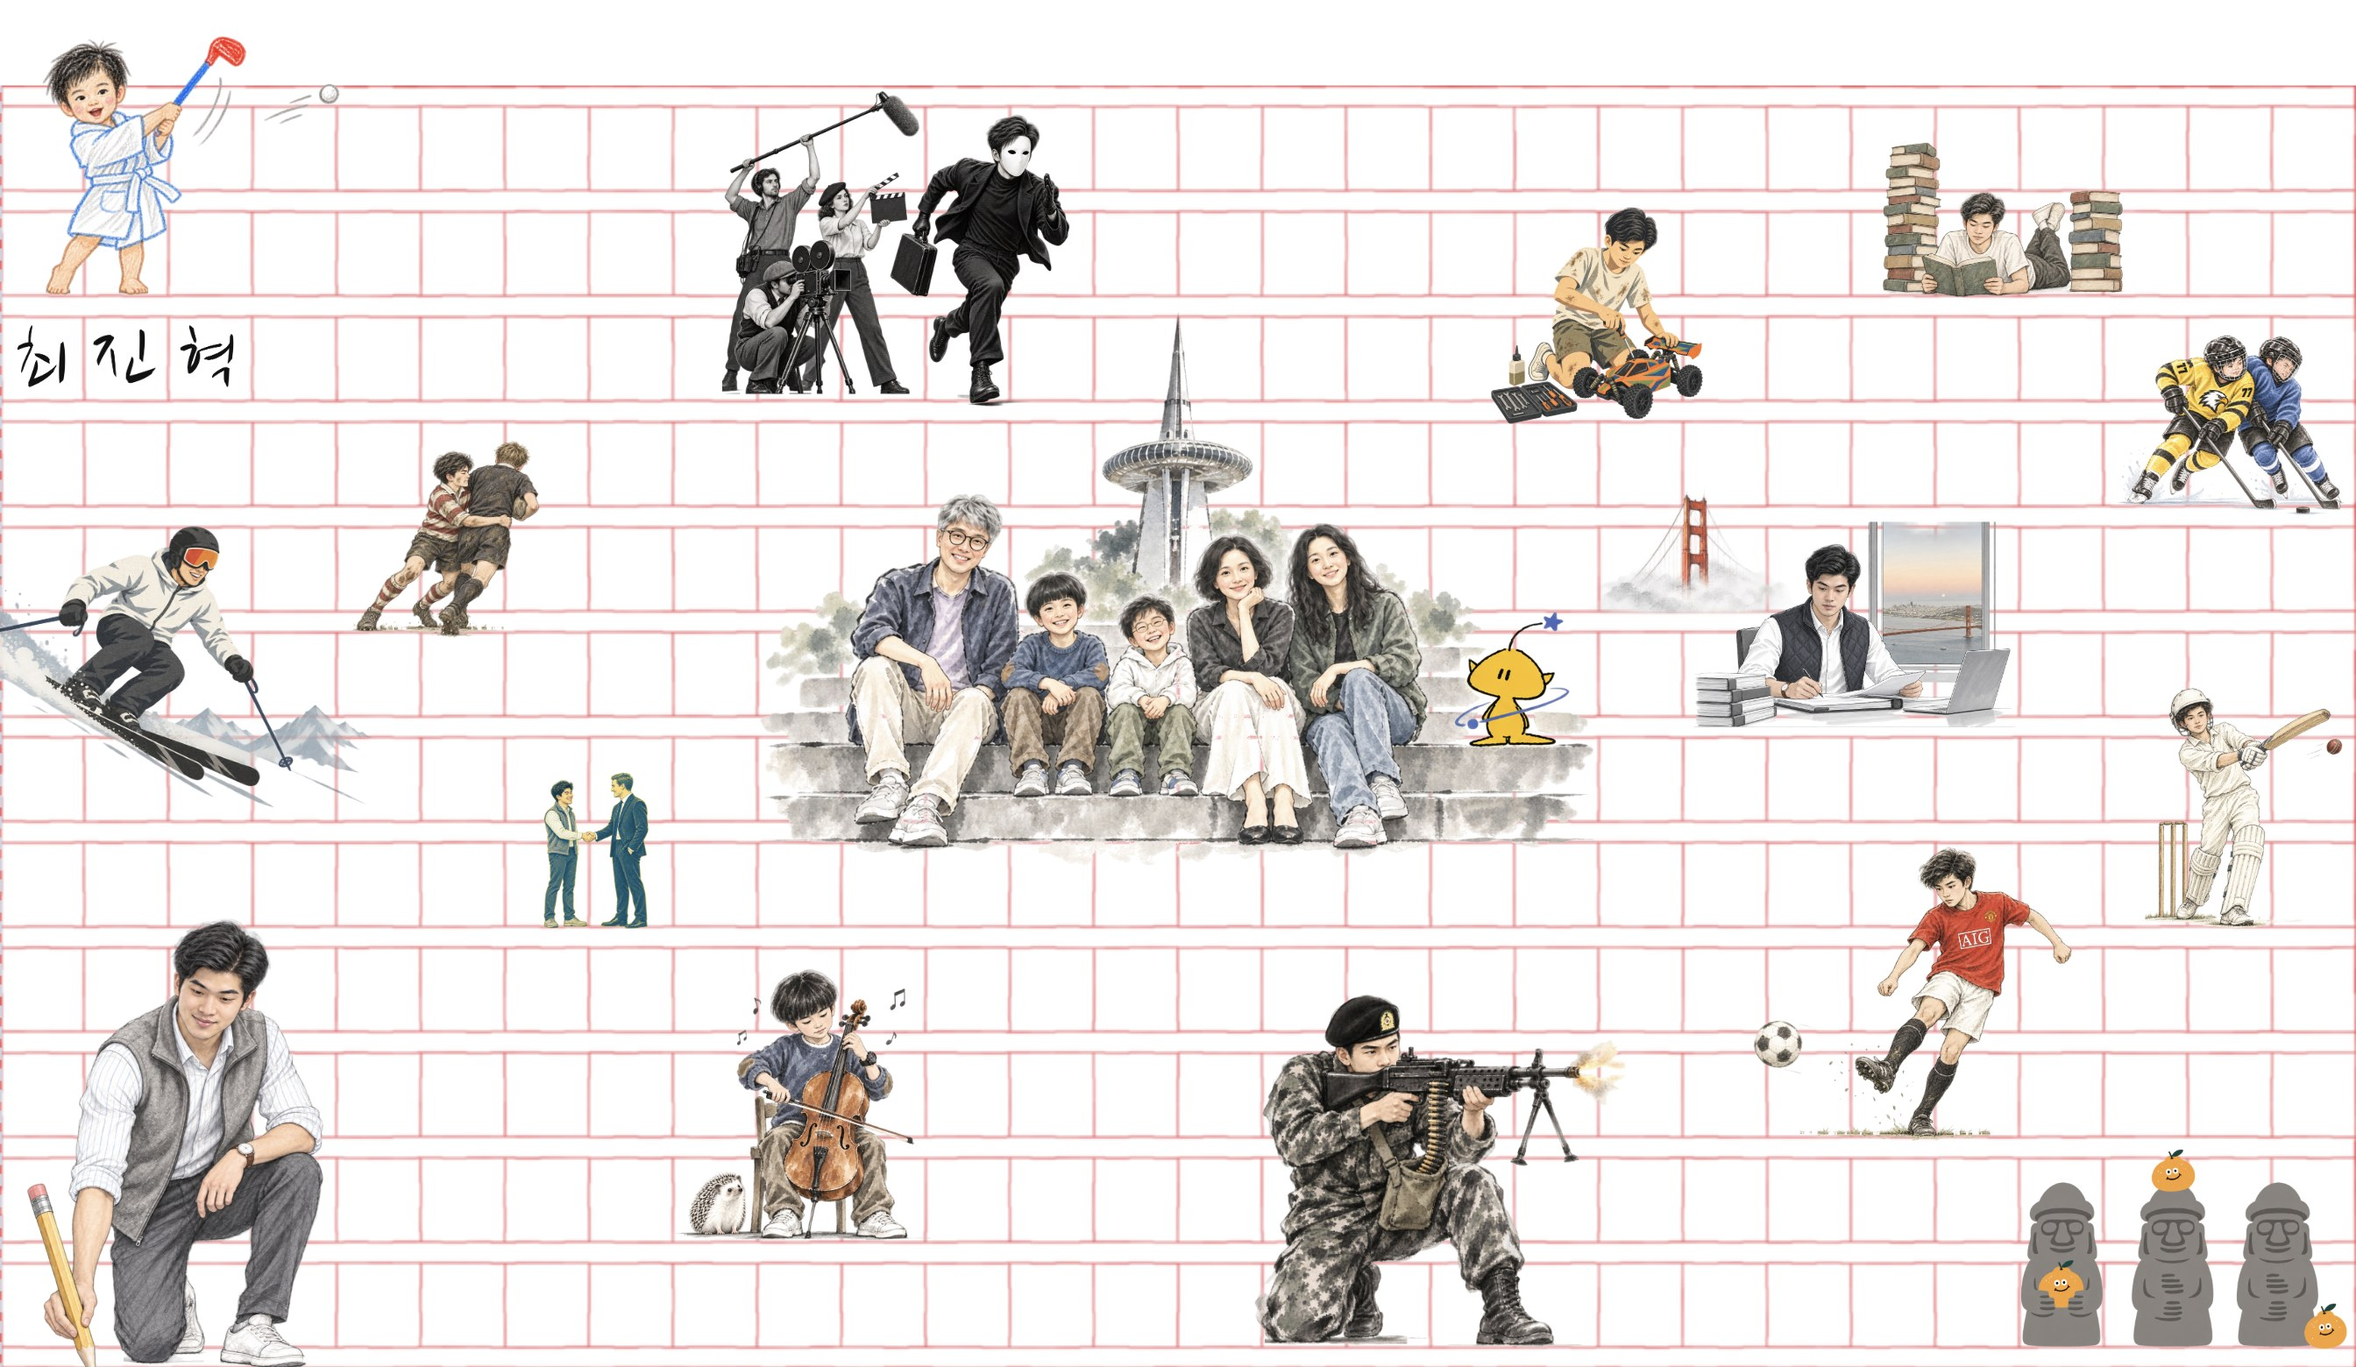
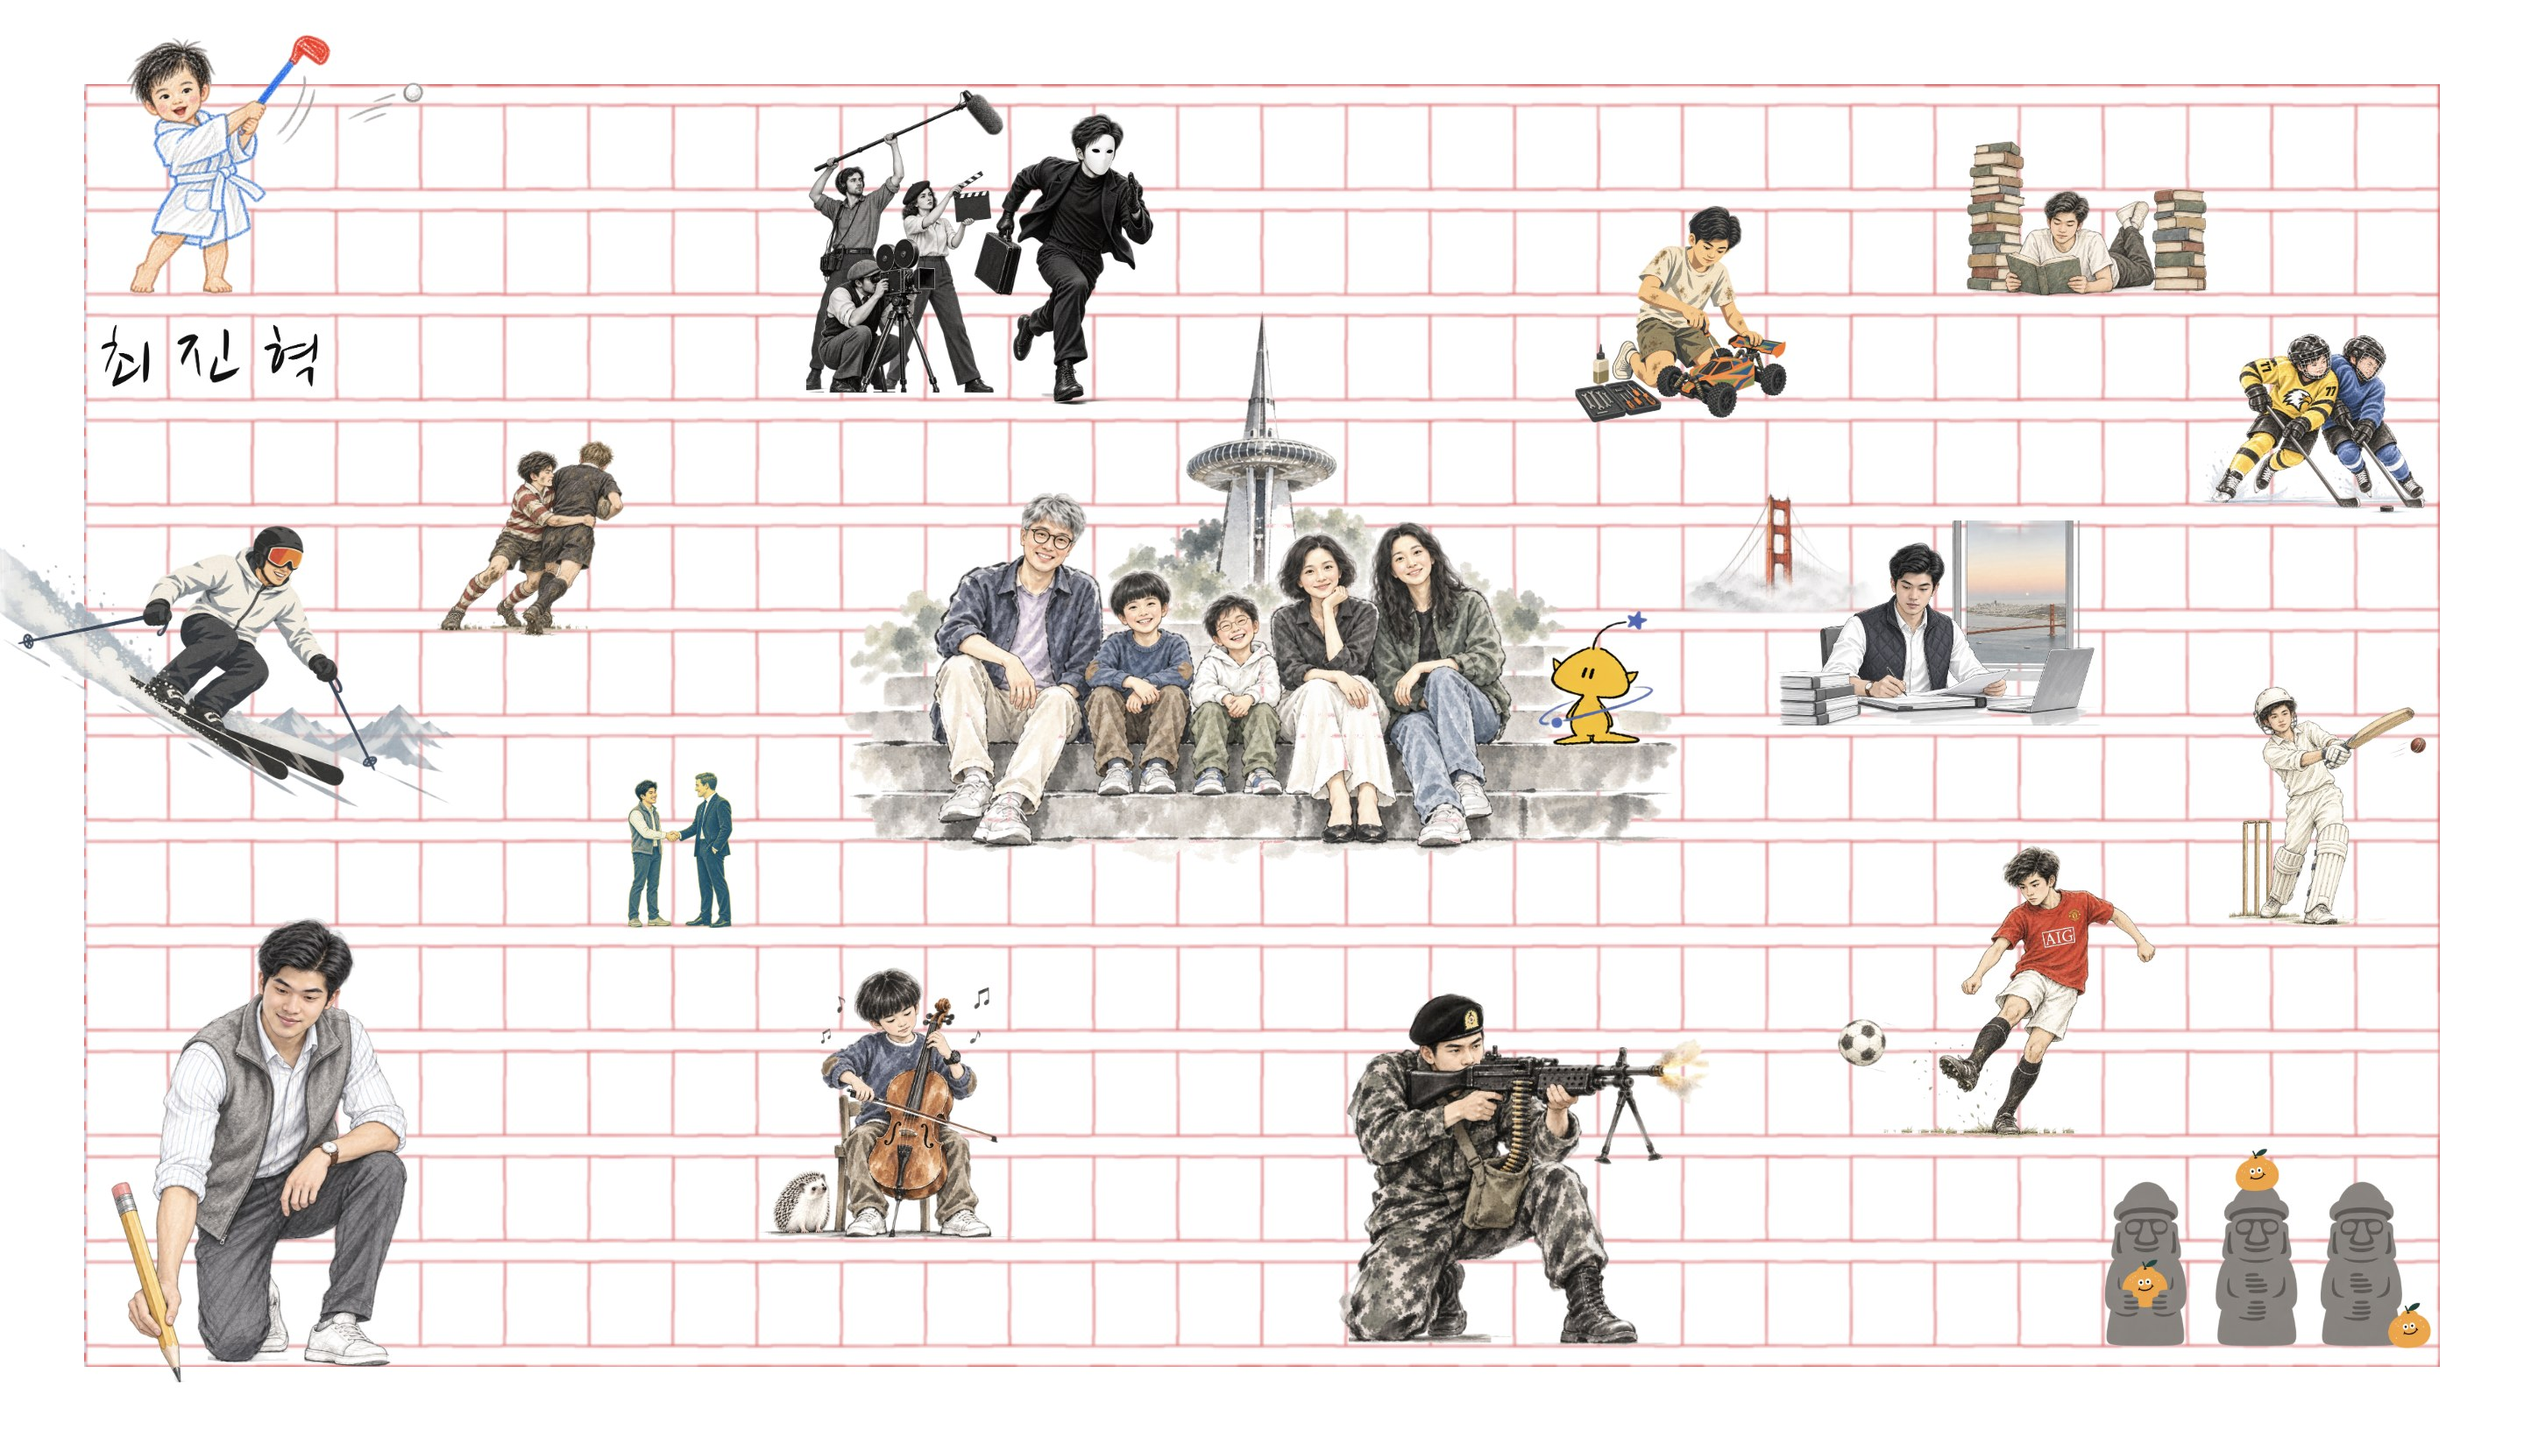
Let the hero bleed, shrink the body text, stop the page shifting
- Re-export the hero so the illustration overflows the way it does in
  Paper. The previous export cropped to the grid frame, which cut the
  skier's left edge and the bottom of the pencil. It now carries both
  gutters plus 44px below the grid, and sits outside the content box.
- Body text 20px -> 17.5px, and the intro is capped at 1184px. The cap is
  the part that matters: at full width the first paragraph's wrap depended
  on the browser window, so "Artie." fell to a third line below 1440. With
  a fixed measure it is two lines at any window from ~1300px up.
- scrollbar-gutter: stable. Projects and Essays are short enough to have no
  scrollbar while Photography and Filmography have one, so the centred page
  jumped sideways when moving between them.

diff --git a/src/styles/global.css b/src/styles/global.css
@@ -32,6 +32,10 @@
 
 html {
   -webkit-text-size-adjust: 100%;
+  /* Always reserve room for the scrollbar. Without this, short pages
+     (Projects, Essays) have no scrollbar and tall ones (Photography,
+     Filmography) do, so the centred page shifts sideways as you navigate. */
+  scrollbar-gutter: stable;
 }
 
 body {
@@ -40,8 +44,10 @@ body {
   color: var(--ink);
   font-family: var(--sans);
   font-weight: 300;
-  font-size: 20px;
-  line-height: 40px;
+  /* 17.5px with the capped intro measure below keeps the first paragraph
+     to two lines. At 20px it wrapped "Artie." onto a third line. */
+  font-size: 17.5px;
+  line-height: 35px;
   letter-spacing: -0.02em;
   -webkit-font-smoothing: antialiased;
   -moz-osx-font-smoothing: grayscale;
@@ -129,8 +135,12 @@ a {
 /* ---------------------------------------------------------------------------
    Hero
    --------------------------------------------------------------------------- */
+/* The illustration bleeds into both page gutters: the ski scene runs off the
+   left edge and the pencil hangs below the grid, the way it does in Paper.
+   The export is a full 1440-wide page, gutters included, so the image sits
+   outside the content box on both sides. */
 .hero {
-  padding-top: 0;
+  margin-inline: calc(var(--gutter) * -1);
 }
 
 .hero img {
@@ -141,13 +151,19 @@ a {
 /* ---------------------------------------------------------------------------
    Intro / running prose
    --------------------------------------------------------------------------- */
+/* The hero export carries 44px of bleed below the grid so the pencil is
+   complete, so the gap here is 72px minus that to keep the designed rhythm. */
 .intro {
-  padding-top: 72px;
-  max-width: 1344px;
+  padding-top: 28px;
+  /* Capped so the line length — and therefore where the first paragraph
+     wraps — doesn't change with the window. At 17.5px this holds that
+     paragraph to two lines on any window down to about 1300px. Letting it
+     run the full 1344px made the wrap depend on the browser width. */
+  max-width: 1184px;
 }
 
 .intro p {
-  margin: 0 0 27px;
+  margin: 0 0 24px;
 }
 
 .intro p:last-child {
@@ -156,7 +172,7 @@ a {
 
 .intro .name {
   font-weight: 700;
-  margin-bottom: 27px;
+  margin-bottom: 24px;
 }
 
 /* ---------------------------------------------------------------------------
@@ -615,8 +631,8 @@ article figcaption {
   }
 
   body {
-    font-size: 17px;
-    line-height: 30px;
+    font-size: 16px;
+    line-height: 28px;
   }
 
   .site-nav {
@@ -631,7 +647,10 @@ article figcaption {
     gap: 20px;
   }
 
-  .intro,
+  .intro {
+    padding-top: 16px;
+  }
+
   .masthead {
     padding-top: 40px;
   }
